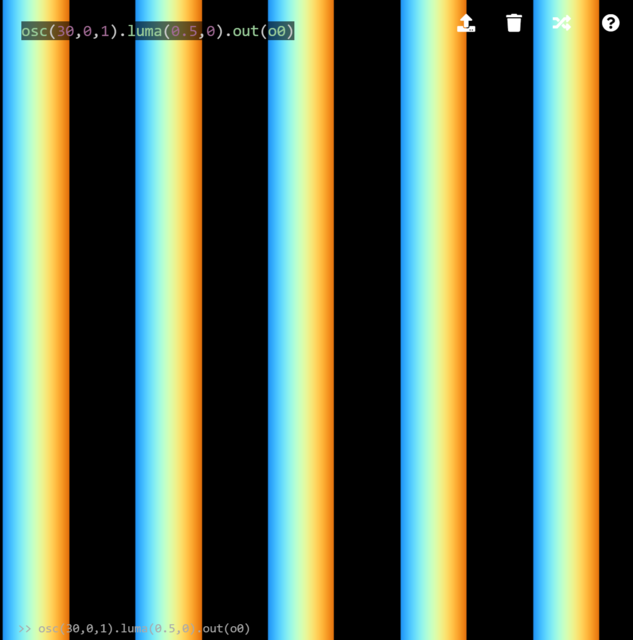
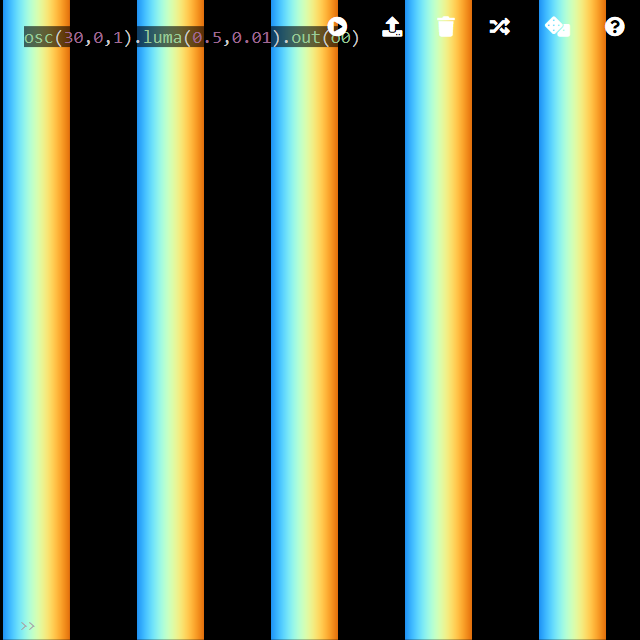
update colors

diff --git a/index.html b/index.html
@@ -18,7 +18,7 @@
   <script>
     window.$docsify = {
       loadSidebar: true,
-      subMaxLevel: 2,
+      subMaxLevel: 3,
       name: '',
       repo: '',
       plugins: [

diff --git a/colors.md b/colors.md
@@ -18,13 +18,15 @@ Oscillator
 With the third argument of `osc()`, an oscillator generates a colored texture.
 
 ```javascript
-osc(10,0,1).out(o0)
+osc(30,0,1).out(o0)
 ```
 
 ![osc-color](images/osccolor.png)
 
 Color Operations
 --------
+
+### hue
 
 Although not documented, `hue` is a useful function to shift the hue in HSV (hue, saturation, value) color space. The saturation and brightness of the color are preserved, and only the hue is affected.
 
@@ -33,6 +35,8 @@ osc(30,0,1).hue(0.5).out(o0)
 ```
 
 ![hue](images/hue.png)
+
+### colorama
 
 In contrast, `colorama()` shifts all H, S and V values, implemented as follows:
 
@@ -49,7 +53,9 @@ vec4 colorama(vec4 c0, float amount){
 Therefore, the resulting image is rather unpredictable (for explanation, the top part shows the original image (oscillator) and the bottom shows colorama-ed result).
 
 ```javascript
-osc(30,0,1).colorama(0.01).out(o0)
+osc(30,0,1).out(o0)
+osc(30,0,1).colorama(0.01).out(o1)
+render()
 ```
 
 ![colorama](images/colorama.png)
@@ -62,10 +68,12 @@ osc(30,0,1).colorama(-0.1).out(o0)
 
 ![colorama-negative](images/colorama-negative.png)
 
-`luma()` masks an image based on the luminosity. Similar to `thresh()`, however, the color of the bright part of the image is preserved. The first argument is for the threshold, and the second is for the tolerance (with bigger tolerance, the boundary becomes blurrier).
+### luma
+
+`luma(threshold,tolerance)` masks an image based on the luminosity. Similar to `thresh()`, however, the color of the bright part of the image is preserved. `threshold` is for the threshold, and `tolerance` sets the blurriness (with bigger tolerance, the boundary becomes blurrier, and same as `threshold`, the value cannot be 0).
 
 ```javascript
-osc(30,0,1).luma(0.5,0).out(o0)
+osc(30,0,1).luma(0.5,0.01).out(o0)
 ```
 
 ![luma](images/luma.png)
@@ -73,7 +81,7 @@ osc(30,0,1).luma(0.5,0).out(o0)
 Importantly, `luma()` returns an image with transparency. Therefore, the image can be overlayed to another image.
 
 ```javascript
-osc(200,0,1).rotate(1).layer(osc(30,0,1).luma(0.5,0)).out(o0)
+osc(200,0,1).rotate(1).layer(osc(30,0,1).luma(0.5,0.01)).out(o0)
 ```
 
 ![luma-layer](images/lumalayer.png)
@@ -82,7 +90,7 @@ With the second argument of `luma`, a shadow-like effect can be created. First, 
 
 ```javascript
 f=()=>osc(30,0,1)
-osc(200,0,1).rotate(1).layer(f().saturate(0).luma(0.2,0.2).color(0,0,0,1)).layer(f().luma(0.5,0)).out(o0)
+osc(200,0,1).rotate(1).layer(f().saturate(0).luma(0.2,0.2).color(0,0,0,1)).layer(f().luma(0.5,0.01)).out(o0)
 ```
 
 ![luma-shadow](images/luma-shadow.png)
@@ -94,7 +102,7 @@ The above examples give "video synthesizer" like colors. But what if you want to
 
 ```javascript
 DD=0.01
-b=(o,u,i,y,z)=>o().add(solid(1,1,1),DD).thresh(i*0.2*(z-y)+y,0).luma(0.5,0).color(c(u,i,0),c(u,i,1),c(u,i,2))
+b=(o,u,i,y,z)=>o().add(solid(1,1,1),DD).thresh(i*0.2*(z-y)+y,0.0001).luma(0.5,0.0001).color(c(u,i,0),c(u,i,1),c(u,i,2))
 c=(u,i,j)=>{
   let cc = u.split("/"), cs = cc[cc.length - 1].split("-")
   return parseInt("0x" + cs[i].substring(2*j, 2+2*j))/255
@@ -112,7 +120,7 @@ While the example code is long, in a nutshell, the input grayscale texture defin
 
 ![color remapping animation](images/color-remapping-animation.gif)
 
-Feedback
+<!-- Feedback
 --------
 
 A feedback loop can be used to create unexpected color effects. For example, based on an example from [Scaling](#scaling), a periodic color texture can be generated.
@@ -121,5 +129,5 @@ A feedback loop can be used to create unexpected color effects. For example, bas
 shape(4,0.7,0).add(src(o0).scrollX(0.01).scrollY(0.01).color(1,1,0).hue(0.1),-1).out(o0)
 ```
 
-![color-feedback](images/colorfeedback.png)
+![color-feedback](images/colorfeedback.png) -->
 
